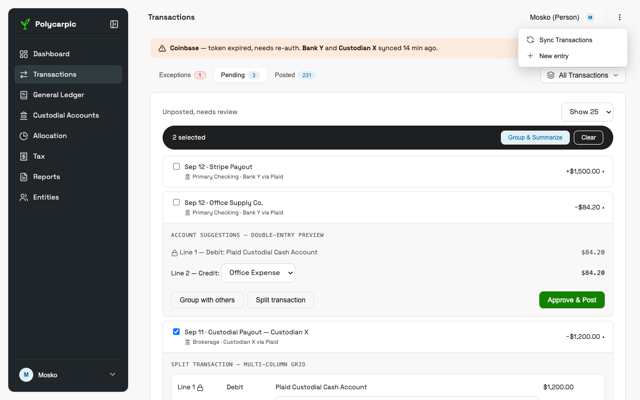
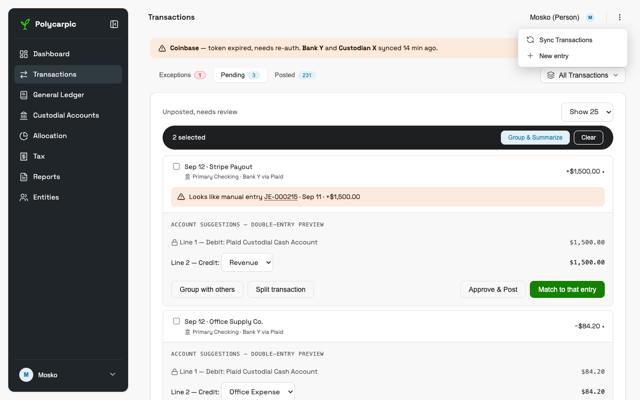
docs(design): duplicate window setting; mirror warning on Pending
Claude-Session: https://claude.ai/code/session_01ShccjGUq8DXaAaYyeY2GBV

diff --git a/docs/DESIGN/index.html b/docs/DESIGN/index.html
@@ -255,7 +255,12 @@ flowchart TD
   tabs --> exceptions
   tabs --> posted
   poll([Plaid adapter polls\nor fake source generates batch]) --> stage[Raw transaction lands\nin the Pending tab]
-  stage --> transfer{Two legs match\nwithin date window?}
+  stage --> entryMatch{Matches a posted\nmanual entry?}
+  entryMatch -- no --> transfer{Two legs match\nwithin date window?}
+  entryMatch -- yes --> rowWarn[Pending row shows a caution line\nnaming the entry; review panel\noffers Match to that entry]
+  rowWarn -- match to that entry --> entryLinked[Entry gains the import link;\nrow leaves Pending]
+  entryLinked --> posted
+  rowWarn -- review as usual --> transfer
   transfer -- same posting date --> autoEntry[Locked debit leg +\nsuggested offset leg\ntwo-line preview]
   transfer -- different dates --> citEntry[Two entries via\nCash in Transit clearing account]
   transfer -- unmatched --> openItem[Remains a single-leg\nPending row]
@@ -313,12 +318,13 @@ flowchart TD
     <li><strong>Posted is transaction-scoped.</strong> Every posted transaction is a row, mirroring Pending, and carries its entry's Journal ID. An entry built from several transactions appears as several rows with one ID: a group, or a same-date matched transfer (two legs, one entry). The rows sit together, because an entry has one date and same-date rows order by Journal ID. A split stays one row, however many legs its entry has. A transfer whose legs land on different dates posts as two entries through Cash in Transit, so its two rows carry two IDs. With the filter on one account, only that account's row of a transfer shows, whether the transfer is one entry or two; the Journal ID popover still lists both legs. The Posted badge counts rows, so it differs from the entry count on the GL Journal entries card, which is the entry-grained view.</li>
     <li><strong>A manual entry is a Posted row like any other.</strong> On All Transactions, an entry from the New entry modal is one row with its own Journal ID, however many legs it has, and its Amount is the entry's sum of debits, unsigned, because it has no bank sign. With one account selected it is one row for the leg on that account, signed like a bank row: a debit to a cash account reads +. It cannot exist outside a compliant journal entry, so the same rules apply: the account filter, Correct entry, the Journal ID popover.</li>
     <li><strong>Row Date is the transaction date.</strong> Date on Posted and on the GL Journal entries card is the date the user entered on the entry, never the time it was logged. The New entry modal's Date field is that date, so a backdated entry sorts by it on both lists, while its Journal ID still orders by posting. The audit trail (actor, logged-at) lives in the Journal ID popover and the GL entry view, not in the list.</li>
-    <li><strong>Potential-duplicate warning.</strong> While a manual entry is open in the New entry modal, each custodial leg is compared with imported transactions that are Pending or Posted. A candidate has the same custodial account, the same amount and direction, and a date within the exceptions window of the entry's Date, either side (default 3 business days). A candidate shows a caution-tier warning above the actions naming it: "Looks like Sep 12 · Stripe Payout +$1,500.00 on Primary Checking, Pending". The nearest date is named, and a Pending candidate wins a tie. <strong>Match to that transaction instead</strong> discards the manual entry and opens the Pending row's review panel, pre-filled with the modal's offset leg; for a Posted candidate this action reads <strong>Open that entry</strong> and opens its Journal ID popover. <strong>Post anyway</strong> takes the Post button's place and posts the entry: its row carries a muted <code>outline</code> <code>possible duplicate</code> badge under its status until the user dismisses it from the popover. Only the New entry path checks, because Correct entry, Split and Group start from a real transaction.</li>
+    <li><strong>Potential-duplicate warning.</strong> While a manual entry is open in the New entry modal, each custodial leg is compared with imported transactions that are Pending or Posted. A candidate has the same custodial account, the same amount and direction, and a date within the entity's Duplicate detection window of the entry's Date, either side (Settings, default ±1 day). A candidate shows a caution-tier warning above the actions naming it: "Looks like Sep 12 · Stripe Payout +$1,500.00 on Primary Checking, Pending". The nearest date is named, and a Pending candidate wins a tie. <strong>Match to that transaction instead</strong> discards the manual entry and opens the Pending row's review panel, pre-filled with the modal's offset leg; for a Posted candidate this action reads <strong>Open that entry</strong> and opens its Journal ID popover. <strong>Post anyway</strong> takes the Post button's place and posts the entry: its row carries a muted <code>outline</code> <code>possible duplicate</code> badge under its status until the user dismisses it from the popover or matches the import. Only New entry and imports check, because Correct entry, Split and Group start from a real transaction.</li>
+    <li><strong>Mirror on Pending.</strong> The same rule and window run on Pending: an imported transaction that matches a posted manual entry, whichever arrived first, shows a caution line on its row: "Looks like manual entry JE-000215 · Sep 11 · +$1,500.00". The line shows collapsed or expanded, and the Journal ID opens that entry's popover. The nearest date is named, and an entry already linked to an import is no longer a candidate. The review panel adds <strong>Match to that entry</strong> as its default action, and Approve &amp; Post steps down to an outline button beside it so Enter cannot slip past it. <strong>Match to that entry</strong> links the import to the existing entry and posts nothing: the row leaves Pending, the entry stays as it is, and the Posted count holds. The entry's row gains a <code>matched import</code> status line and loses any <code>possible duplicate</code> badge, and its popover lists the import. Approve &amp; Post past the caution keeps both. Dismiss possible duplicate on the entry clears the caution on the row it names.</li>
     <li><strong>Journal ID popover.</strong> Clicking a Journal ID on Posted opens a <code>Popover</code> anchored to the ID, so an entry can be read without leaving the list. Header line: Journal ID with copy, transaction date, actor, "logged &lt;timestamp&gt;", status badge. Body: every leg, then the correction trail if any (the original and its reversal, since the entry's own legs are already above). Footer: <strong>Open in General Ledger</strong>, to the entry's row on the Journal entries card, plus <strong>Dismiss possible duplicate</strong> on a row that carries that badge. It is non-modal: an outside click or Esc dismisses it and focus returns to the ID. The View correction chevron on a Corrected row is a separate control: it expands the trail in place. The account register's Journal ID stays a link to the GL.</li>
     <li><strong>An unmatched transfer leg stays a staged draft</strong> in Pending until its counterpart arrives (then it matches like any transfer), or until the user explicitly approves it into Cash in Transit as a one-sided in-flight item — a balanced entry, cash leg against the CIT clearing account, cleared when the counterpart posts. A draft still unmatched past the exceptions threshold moves to Exceptions.</li>
     <li><strong>Posting gate:</strong> Σ debits = Σ credits; the accounting equation holds per entity; the entry date matches the bank date (or the Cash-in-Transit rule); every posted draft links to exactly one entry, and several drafts may share it (a group, a same-date matched transfer). Any failure keeps the item in Pending — no partial or silent post.</li>
     <li>A posted row's user-facing action is <strong>"Correct entry"</strong>, never "edit" or "reverse" — reversal-only underneath (PRD §5). Click-through shows the full trail: original lines shaded/struck, the reversal, and the new entry. Correct entry on any row of a multi-row entry corrects that one entry, and every row of it then carries the corrected entry's ID and the Corrected badge. See design-system-spec.md § Correcting a posted entry.</li>
-    <li>Badges: <code>Draft (staged)</code> (<code>--secondary</code>, clock), <code>Posted</code> (<code>--outline</code>, check), <code>Corrected</code> (<code>--outline</code> + <code>--brand-2</code>-tinted dot, pencil). An auto-posted row carries <code>Posted</code> plus a <code>posted by rule — &lt;name&gt;</code> line and the same Correct entry action. <code>possible duplicate</code> (<code>--outline</code>, muted ink) sits under the status of a manual row posted past the duplicate warning.</li>
+    <li>Badges: <code>Draft (staged)</code> (<code>--secondary</code>, clock), <code>Posted</code> (<code>--outline</code>, check), <code>Corrected</code> (<code>--outline</code> + <code>--brand-2</code>-tinted dot, pencil). An auto-posted row carries <code>Posted</code> plus a <code>posted by rule — &lt;name&gt;</code> line and the same Correct entry action. <code>possible duplicate</code> (<code>--outline</code>, muted ink) sits under the status of a manual row posted past the duplicate warning; <code>matched import</code> is the status line of a manual row linked to its import.</li>
     <li>Actor attribution (user / auto-post rule / system job) is shown on every draft and posted row, never inferred (PRD §5).</li>
     <li>Import stats and link status (provider sync time, link health) show as a banner at the top of Transactions, not as a separate nav item.</li>
   </ul>

diff --git a/docs/DESIGN/styled-screens/transactions.html b/docs/DESIGN/styled-screens/transactions.html
@@ -126,11 +126,30 @@
             </span>
           </div>
 
-          <!-- Collapsed row -->
+          <!-- Expanded row matching a posted manual entry: same rule and window
+               as the New entry warning. JE-000215 is the reference entry below,
+               held out of the Posted list so the tab counts stay as drawn. Match
+               to that entry links the import and posts nothing. -->
           <div class="pending-row">
             <div class="pending-summary">
               <span class="pending-lead"><input type="checkbox" class="pending-checkbox"><span>Sep 12 · Stripe Payout<div class="row-source"><span class="icon"><svg viewBox="0 0 24 24" fill="none" stroke="currentColor" stroke-width="2" stroke-linecap="round" stroke-linejoin="round" aria-hidden="true"><line x1="3" x2="21" y1="22" y2="22"/><line x1="6" x2="6" y1="18" y2="11"/><line x1="10" x2="10" y1="18" y2="11"/><line x1="14" x2="14" y1="18" y2="11"/><line x1="18" x2="18" y1="18" y2="11"/><polygon points="12 2 20 7 4 7"/></svg></span>Primary Checking · Bank Y via Plaid</div></span></span>
-              <span class="amount positive">+$1,500.00 ▾</span>
+              <span class="amount positive">+$1,500.00 ▴</span>
+            </div>
+            <div class="je-dup-warning row-dup-warning" role="status"><span class="icon"><svg viewBox="0 0 24 24" fill="none" stroke="currentColor" stroke-width="2" stroke-linecap="round" stroke-linejoin="round"><path d="m21.73 18-8-14a2 2 0 0 0-3.48 0l-8 14A2 2 0 0 0 4 21h16a2 2 0 0 0 1.73-3Z"/><path d="M12 9v4"/><path d="M12 17h.01"/></svg></span><span>Looks like manual entry <button class="je-link" type="button" aria-haspopup="dialog" aria-expanded="false" title="Show JE-000215">JE-000215</button> · Sep 11 · +$1,500.00</span></div>
+            <div class="pending-expand">
+              <div class="eyebrow" style="margin-bottom:10px;">Account suggestions — double-entry preview</div>
+              <div class="leg-row leg-locked"><span class="leg-label"><span class="icon icon-sm"><svg viewBox="0 0 24 24" fill="none" stroke="currentColor" stroke-width="2" stroke-linecap="round" stroke-linejoin="round"><rect width="18" height="11" x="3" y="11" rx="2" ry="2"/><path d="M7 11V7a5 5 0 0 1 10 0v4"/></svg></span> Line 1 — Debit: Plaid Custodial Cash Account</span><span>$1,500.00</span></div>
+              <div class="leg-row"><span class="leg-label">Line 2 — Credit: <select class="select" style="display:inline-block; width:auto;"><option>Revenue</option></select></span><span>$1,500.00</span></div>
+              <div class="pending-actions">
+                <span class="secondary-actions">
+                  <button class="btn btn-outline">Group with others</button>
+                  <button class="btn btn-outline">Split transaction</button>
+                </span>
+                <span class="secondary-actions">
+                  <button class="btn btn-outline">Approve &amp; Post</button>
+                  <button class="btn btn-default">Match to that entry</button>
+                </span>
+              </div>
             </div>
           </div>
 
@@ -386,8 +405,8 @@
 
     <!-- ============ New journal entry: potential duplicate (reference) ============
          A custodial leg matches an imported Pending or Posted transaction:
-         same account, same amount and direction, date within the exceptions
-         window. Post anyway takes the Post button's place. A Posted candidate
+         same account, same amount and direction, date within the entity's
+         Duplicate detection window (Settings). Post anyway takes the Post button's place. A Posted candidate
          reads Open that entry instead of Match. -->
     <div style="margin-top:24px;">
       <div class="eyebrow" style="margin-bottom:8px;">New journal entry — potential duplicate</div>
@@ -417,8 +436,9 @@
 
     <!-- ============ After Post anyway (reference) ============
          The row as All Transactions shows it, and its popover with the
-         dismiss control. Not in the Posted list above: the modal has not
-         posted, so the tab counts exclude it. -->
+         dismiss control. Reference only: it stays out of the Posted list above,
+         so the tab counts and the GL card hold, and the Pending row above
+         points at it. -->
     <div style="margin-top:24px;">
       <div class="eyebrow" style="margin-bottom:8px;">Posted row after Post anyway, and its popover</div>
       <div class="card" style="padding:0;">

diff --git a/docs/DESIGN/styled-screens/settings.html b/docs/DESIGN/styled-screens/settings.html
@@ -77,7 +77,7 @@
     <div class="card">
       <div class="card-head"><span class="card-title">Import options</span><span class="card-sub">This entity only</span></div>
       <div class="kv-row"><span class="kv-label">Cash-in-Transit exceptions threshold<span class="kv-help">An unmatched transfer leg older than this becomes an exception.</span></span><select class="select select-inline" aria-label="Exceptions threshold"><option>3 business days</option><option>5 business days</option><option>10 business days</option></select></div>
-      <div class="kv-row"><span class="kv-label">Duplicate detection window</span><select class="select select-inline" aria-label="Duplicate detection window"><option>±1 day</option><option>±2 days</option><option>±3 days</option></select></div>
+      <div class="kv-row"><span class="kv-label">Duplicate detection window<span class="kv-help">Also governs manual-entry duplicate warnings, in New entry and on Pending.</span></span><select class="select select-inline" aria-label="Duplicate detection window"><option>±1 day</option><option>±2 days</option><option>±3 days</option></select></div>
     </div>
     <div class="card">
       <div class="card-head"><span class="card-title">App preferences</span><span class="card-sub">Just you, every entity</span></div>

diff --git a/docs/DESIGN/screen.css b/docs/DESIGN/screen.css
@@ -1796,10 +1796,11 @@ table.data-table tr.je-muted .badge { color: var(--muted-foreground); }
 .je-popover-foot { display: flex; justify-content: flex-end; padding: 8px 16px; border-top: 1px solid var(--border); font-size: 13px; }
 .je-popover-foot.spread { justify-content: space-between; align-items: center; }
 
-/* Potential-duplicate warning (New entry modal) and its Posted row badge.
+/* Potential-duplicate warning (New entry modal, Pending row) and its Posted row badge.
    Caution tier: same ink rule as .link-health-banner.warning. */
 .je-dup-warning { display: flex; align-items: flex-start; gap: 8px; margin-top: 16px; padding: 10px 12px; border-radius: var(--radius-md); font-size: 13px; background: color-mix(in srgb, var(--warning) 14%, var(--card)); color: var(--warning-foreground); }
 .dark .je-dup-warning { color: var(--warning); }
+.row-dup-warning { margin: 0 16px 12px; }
 .je-dup-warning .icon { flex: none; width: 16px; height: 16px; margin-top: 1px; }
 .row-flag { margin-top: 4px; }
 .badge-outline.badge-quiet { color: var(--muted-foreground); }

diff --git a/docs/DESIGN/design-system-spec.md b/docs/DESIGN/design-system-spec.md
@@ -416,7 +416,7 @@ There is no "Securities" item (lots live in Custodial Accounts' sub-card; alloca
 | Tier | Token | Product examples |
 |---|---|---|
 | Normal / on track | `--positive` or plain `--foreground` | Safe-harbor gap < 0 (prepaid ahead of the requirement); reconciliation clean; import fully matched |
-| Caution | `--warning` | Safe-harbor gap ≥ 0, due date more than 14 days out (gap = 0 is exactly at the safe-harbor line, nothing in hand beyond it, so never on track); an unmatched transfer leg aged inside the Cash-in-Transit exceptions window; a manual entry that matches an imported transaction; a stale/expired provider link that still has cached data to show |
+| Caution | `--warning` | Safe-harbor gap ≥ 0, due date more than 14 days out (gap = 0 is exactly at the safe-harbor line, nothing in hand beyond it, so never on track); an unmatched transfer leg aged inside the Cash-in-Transit exceptions window; a manual entry and an imported transaction that match; a stale/expired provider link that still has cached data to show |
 | Danger / overdue | `--destructive` | Safe-harbor gap ≥ 0 with the due date within 14 days or passed; exceptions-threshold breach; reconciliation break |
 
 ### Entity, account, and category badges — label + icon, not per-category hue
@@ -480,18 +480,22 @@ Any gate failure keeps the item in Pending — there is no partial post and no s
 
 **Row Date is the transaction date.** Date on Posted and on the Journal entries card is the date the user entered on the entry, never the time it was logged. The New entry modal's Date field is that date, so a backdated entry sorts by it on both lists, while its Journal ID still orders by posting. The audit trail (actor, logged-at) lives in the Journal ID popover and the GL entry view, not in the list.
 
-**Potential-duplicate warning.** While a manual entry is open in the New entry modal, each custodial leg is compared with imported transactions that are Pending or Posted. A candidate has the same custodial account, the same amount and direction, and a date within the exceptions window of the entry's Date, either side (default 3 business days). A candidate shows a caution-tier warning (`--warning`, `triangle-alert`) above the actions naming it: "Looks like Sep 12 · Stripe Payout +$1,500.00 on Primary Checking, Pending". The nearest date is named, and a Pending candidate wins a tie. The check reruns as Date, legs or amounts change, and the warning clears when nothing matches.
+**Potential-duplicate warning.** While a manual entry is open in the New entry modal, each custodial leg is compared with imported transactions that are Pending or Posted. A candidate has the same custodial account, the same amount and direction, and a date within the entity's Duplicate detection window of the entry's Date, either side (Settings, default ±1 day). A candidate shows a caution-tier warning (`--warning`, `triangle-alert`) above the actions naming it: "Looks like Sep 12 · Stripe Payout +$1,500.00 on Primary Checking, Pending". The nearest date is named, and a Pending candidate wins a tie. The check reruns as Date, legs or amounts change, and the warning clears when nothing matches.
 
 - **Match to that transaction instead** is the default action. It discards the manual entry and opens the Pending row's review panel, pre-filled with the modal's offset leg. For a Posted candidate the action reads **Open that entry** and opens its Journal ID popover, as there is no review panel left to fill.
-- **Post anyway** takes the Post button's place, so Enter cannot slip past the warning. It posts the entry, and the row carries a muted `outline` `possible duplicate` badge under its status until the user dismisses it from the popover. The badge is a review note on the row, not a ledger state: the entry posts like any other.
+- **Post anyway** takes the Post button's place, so Enter cannot slip past the warning. It posts the entry, and the row carries a muted `outline` `possible duplicate` badge under its status until the user dismisses it from the popover or matches the import. The badge is a review note on the row, not a ledger state: the entry posts like any other.
 
-Only the New entry path checks, because Correct entry, Split and Group start from a real transaction.
+Only New entry and imports check, because Correct entry, Split and Group start from a real transaction.
+
+**Mirror on Pending.** The same rule and window run on Pending: an imported transaction that matches a posted manual entry, whichever arrived first, shows a caution line on its row: "Looks like manual entry JE-000215 · Sep 11 · +$1,500.00". The line shows collapsed or expanded, and the Journal ID opens that entry's popover. The nearest date is named, and an entry already linked to an import is no longer a candidate. The review panel adds **Match to that entry** as its default action, and Approve & Post steps down to an outline button beside it so Enter cannot slip past it. 
+
+**Match to that entry** links the import to the existing entry and posts nothing: the row leaves Pending, the entry stays as it is, and the Posted count holds. The entry's row gains a `matched import` status line and loses any `possible duplicate` badge, and its popover lists the import. Approve & Post past the caution keeps both. Dismiss possible duplicate on the entry clears the caution on the row it names.
 
 **Journal entry popover.** Clicking a Journal ID on Posted opens a `Popover` anchored to the ID, not a navigation, so an entry can be read without leaving the list. Header line: Journal ID with copy (always visible here), transaction date, actor, "logged <timestamp>", status badge. Body: every leg, in `.trail-row` markup, then the correction trail if any: the original and its reversal, since the entry's own legs are already above. Footer: **Open in General Ledger**, to `general-ledger.html#je-…`, plus **Dismiss possible duplicate** on a row that carries that badge. It is non-modal: an outside click or Esc dismisses it and focus returns to the ID. A long trail scrolls inside the popover and the footer stays visible. The popover is where Posted shows the actor and the logged time, as the list has neither. **View correction** on a Corrected row is a separate control: it expands the trail in place. The account register keeps its ID as a link (see Journal ID links).
 
 **"show N" selector:** each of the three tabs (Exceptions, Pending, Posted) has its own limit selector — a user with a large Posted history isn't forced to render all of it; Posted is paged, Exceptions/Pending show their full (usually small) count by default.
 
-**Permissions:** New entry, Sync, Split, Group, Approve & Post, Dismiss possible duplicate, and the rule auto-post opt-in are Manager/Owner actions — a Viewer sees none of these affordances anywhere on this screen (SECURITY §4.2.1 matrix, ARCH §2.4 permissions table).
+**Permissions:** New entry, Sync, Split, Group, Approve & Post, Match to that entry, Dismiss possible duplicate, and the rule auto-post opt-in are Manager/Owner actions — a Viewer sees none of these affordances anywhere on this screen (SECURITY §4.2.1 matrix, ARCH §2.4 permissions table).
 
 ---
 
@@ -578,7 +582,7 @@ See `styled-screens/custodial-accounts.html`: the lots sub-card shows one securi
 
 **Reports.** A nav item **from day one**: "its own sidebar item from day one... built in POLY-M5 (Statements); until then it shows the Dashboard's empty-state pattern." Three statements — Balance Sheet, Income Statement, Cash Flow — behind the same `Tabs` pattern used elsewhere. Before M5, every tab uses the empty-state convention (real card chrome, "Not set up yet," no milestone/version naming) rather than being hidden or disabled — the nav item itself is never gated on the feature shipping.
 
-**Settings.** Batch-import scheduling ("all the option selections for batch scheduled imports") plus general app preferences. Two scopes that must not be conflated: **per-entity** (import schedule, CIT exceptions threshold, duplicate-detection window — a Household's schedule doesn't touch a Person entity) and **per-user** (theme, default entity on login, reduced motion). Viewers can view this page, but the Manager/Owner-only settings (schedule, import options) are read-only for them — same posture as every other write action in this system (ARCH §2.4 permissions table).
+**Settings.** Batch-import scheduling ("all the option selections for batch scheduled imports") plus general app preferences. Two scopes that must not be conflated: **per-entity** (import schedule, CIT exceptions threshold, duplicate-detection window, which also governs manual-entry duplicate warnings — a Household's schedule doesn't touch a Person entity) and **per-user** (theme, default entity on login, reduced motion). Viewers can view this page, but the Manager/Owner-only settings (schedule, import options) are read-only for them — same posture as every other write action in this system (ARCH §2.4 permissions table).
 
 See `styled-screens/allocation.html`, `styled-screens/reports.html`, `styled-screens/settings.html`.
 
@@ -733,7 +737,7 @@ Every icon in use is named above. Add a row whenever a new control lands, rather
 | Transaction/account-register/journal-entries tables | **Table** | Direct reuse |
 | Journal entries date range | **Popover** + **Range Calendar** | The shadcn date-range-picker pattern; the preset list is `.popover-item`s beside the calendar |
 | Journal entry popover (Transactions Posted) | **Popover** + **Badge** + plain `.trail-row` markup | The entry read in place from its Journal ID; non-modal, so the list stays usable |
-| Potential-duplicate warning (New entry modal) | Caution-tier inline block + two **Button**s | Names the matched transaction above the modal's actions; the row badge is `outline` in muted ink |
+| Potential-duplicate warning (New entry modal, Pending row) | Caution-tier inline block + **Button**s | Names the matched transaction above the modal's actions, or the matched manual entry on a Pending row; the row badge is `outline` in muted ink |
 | Chart-of-accounts tree | `custom` | No shadcn tree component; built from nested disclosure rows (could adopt a community tree primitive later if one matures) |
 | Lots sub-card pull-down | **Collapsible** | Direct reuse — a simpler primitive than Accordion for a single expand/collapse row |
 | Settings on/off preferences | **Switch** | Direct reuse |

diff --git a/docs/DESIGN/flows/import-confirm-flow.md b/docs/DESIGN/flows/import-confirm-flow.md
@@ -10,7 +10,12 @@ flowchart TD
   tabs --> exceptions
   tabs --> posted
   poll([Plaid adapter polls\nor fake source generates batch]) --> stage[Raw transaction lands\nin the Pending tab]
-  stage --> transfer{Two legs match\nwithin date window?}
+  stage --> entryMatch{Matches a posted\nmanual entry?}
+  entryMatch -- no --> transfer{Two legs match\nwithin date window?}
+  entryMatch -- yes --> rowWarn[Pending row shows a caution line\nnaming the entry; review panel\noffers Match to that entry]
+  rowWarn -- match to that entry --> entryLinked[Entry gains the import link;\nrow leaves Pending]
+  entryLinked --> posted
+  rowWarn -- review as usual --> transfer
   transfer -- same posting date --> autoEntry[Locked debit leg +\nsuggested offset leg\ntwo-line preview]
   transfer -- different dates --> citEntry[Two entries via\nCash in Transit clearing account]
   transfer -- unmatched --> openItem[Remains a single-leg\nPending row]
@@ -69,11 +74,12 @@ flowchart TD
 - **Posted is transaction-scoped.** Every posted transaction is a row, mirroring Pending, and carries its entry's Journal ID. An entry built from several transactions appears as several rows with one ID: a group, or a same-date matched transfer (two legs, one entry). The rows sit together, because an entry has one date and same-date rows order by Journal ID. A split stays one row, however many legs its entry has. A transfer whose legs land on different dates posts as two entries through Cash in Transit, so its two rows carry two IDs. With the filter on one account, only that account's row of a transfer shows, whether the transfer is one entry or two; the Journal ID popover still lists both legs. The Posted badge counts rows, so it differs from the entry count on the GL Journal entries card, which is the entry-grained view.
 - **A manual entry is a Posted row like any other.** On All Transactions, an entry from the New entry modal is one row with its own Journal ID, however many legs it has, and its Amount is the entry's sum of debits, unsigned, because it has no bank sign. With one account selected it is one row for the leg on that account, signed like a bank row: a debit to a cash account reads +. It cannot exist outside a compliant journal entry, so the same rules apply: the account filter, Correct entry, the Journal ID popover.
 - **Row Date is the transaction date.** Date on Posted and on the GL Journal entries card is the date the user entered on the entry, never the time it was logged. The New entry modal's Date field is that date, so a backdated entry sorts by it on both lists, while its Journal ID still orders by posting. The audit trail (actor, logged-at) lives in the Journal ID popover and the GL entry view, not in the list.
-- **Potential-duplicate warning.** While a manual entry is open in the New entry modal, each custodial leg is compared with imported transactions that are Pending or Posted. A candidate has the same custodial account, the same amount and direction, and a date within the exceptions window of the entry's Date, either side (default 3 business days). A candidate shows a caution-tier warning above the actions naming it: "Looks like Sep 12 · Stripe Payout +$1,500.00 on Primary Checking, Pending". The nearest date is named, and a Pending candidate wins a tie. **Match to that transaction instead** discards the manual entry and opens the Pending row's review panel, pre-filled with the modal's offset leg; for a Posted candidate this action reads **Open that entry** and opens its Journal ID popover. **Post anyway** takes the Post button's place and posts the entry: its row carries a muted `outline` `possible duplicate` badge under its status until the user dismisses it from the popover. Only the New entry path checks, because Correct entry, Split and Group start from a real transaction.
+- **Potential-duplicate warning.** While a manual entry is open in the New entry modal, each custodial leg is compared with imported transactions that are Pending or Posted. A candidate has the same custodial account, the same amount and direction, and a date within the entity's Duplicate detection window of the entry's Date, either side (Settings, default ±1 day). A candidate shows a caution-tier warning above the actions naming it: "Looks like Sep 12 · Stripe Payout +$1,500.00 on Primary Checking, Pending". The nearest date is named, and a Pending candidate wins a tie. **Match to that transaction instead** discards the manual entry and opens the Pending row's review panel, pre-filled with the modal's offset leg; for a Posted candidate this action reads **Open that entry** and opens its Journal ID popover. **Post anyway** takes the Post button's place and posts the entry: its row carries a muted `outline` `possible duplicate` badge under its status until the user dismisses it from the popover or matches the import. Only New entry and imports check, because Correct entry, Split and Group start from a real transaction.
+- **Mirror on Pending.** The same rule and window run on Pending: an imported transaction that matches a posted manual entry, whichever arrived first, shows a caution line on its row: "Looks like manual entry JE-000215 · Sep 11 · +$1,500.00". The line shows collapsed or expanded, and the Journal ID opens that entry's popover. The nearest date is named, and an entry already linked to an import is no longer a candidate. The review panel adds **Match to that entry** as its default action, and Approve & Post steps down to an outline button beside it so Enter cannot slip past it. **Match to that entry** links the import to the existing entry and posts nothing: the row leaves Pending, the entry stays as it is, and the Posted count holds. The entry's row gains a `matched import` status line and loses any `possible duplicate` badge, and its popover lists the import. Approve & Post past the caution keeps both. Dismiss possible duplicate on the entry clears the caution on the row it names.
 - **Journal ID popover.** Clicking a Journal ID on Posted opens a `Popover` anchored to the ID, so an entry can be read without leaving the list. Header line: Journal ID with copy, transaction date, actor, "logged <timestamp>", status badge. Body: every leg, then the correction trail if any (the original and its reversal, since the entry's own legs are already above). Footer: **Open in General Ledger**, to the entry's row on the Journal entries card, plus **Dismiss possible duplicate** on a row that carries that badge. It is non-modal: an outside click or Esc dismisses it and focus returns to the ID. The View correction chevron on a Corrected row is a separate control: it expands the trail in place. The account register's Journal ID stays a link to the GL.
 - **An unmatched transfer leg stays a staged draft** in Pending until its counterpart arrives (then it matches like any transfer), or until the user explicitly approves it into Cash in Transit as a one-sided in-flight item — a balanced entry, cash leg against the CIT clearing account, cleared when the counterpart posts. A draft still unmatched past the exceptions threshold moves to Exceptions.
 - **Posting gate:** Σ debits = Σ credits; the accounting equation holds per entity; the entry date matches the bank date (or the Cash-in-Transit rule); every posted draft links to exactly one entry, and several drafts may share it (a group, a same-date matched transfer). Any failure keeps the item in Pending — no partial or silent post.
 - A posted row's user-facing action is **"Correct entry"**, never "edit" or "reverse" — reversal-only underneath (PRD §5). Click-through shows the full trail: original lines shaded/struck, the reversal, and the new entry. Correct entry on any row of a multi-row entry corrects that one entry, and every row of it then carries the corrected entry's ID and the Corrected badge. See design-system-spec.md § Correcting a posted entry.
-- Badges: `Draft (staged)` (`--secondary`, clock), `Posted` (`--outline`, check), `Corrected` (`--outline` + `--brand-2`-tinted dot, pencil). An auto-posted row carries `Posted` plus a `posted by rule — <name>` line and the same Correct entry action. `possible duplicate` (`--outline`, muted ink) sits under the status of a manual row posted past the duplicate warning.
+- Badges: `Draft (staged)` (`--secondary`, clock), `Posted` (`--outline`, check), `Corrected` (`--outline` + `--brand-2`-tinted dot, pencil). An auto-posted row carries `Posted` plus a `posted by rule — <name>` line and the same Correct entry action. `possible duplicate` (`--outline`, muted ink) sits under the status of a manual row posted past the duplicate warning; `matched import` is the status line of a manual row linked to its import.
 - Actor attribution (user / auto-post rule / system job) is shown on every draft and posted row, never inferred (PRD §5).
 - Import stats and link status (provider sync time, link health) show as a banner at the top of Transactions, not as a separate nav item.
